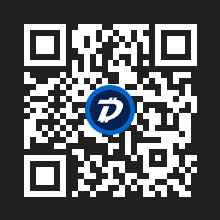
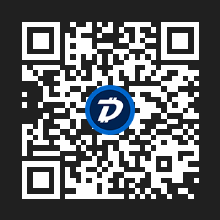
Wallet address casing

diff --git a/src/app/shared/Constants.ts b/src/app/shared/Constants.ts
@@ -1,8 +1,8 @@
 export abstract class Constants {
     static readonly DATE_FORMAT: string = 'dd-MM-yyyy';
     static readonly DATE_TIME_FORMAT: string = 'dd-MM-yyyy HH:mm';
-    static readonly DIGIBYTE_WALLET_ADDRESS_GENERAL: string = 'DGB1QVKXGPELLS5Z2YEAZS0HQ6SPKS362URNJ3FS86K';
-    static readonly DIGIBYTE_WALLET_ADDRESS_TRANSACTIONS: string = 'DGB1QZXU0RAPYVJZ9WWS8CDYQJ6T7T5LNE0LGNM4W5W';
+    static readonly DIGIBYTE_WALLET_ADDRESS_GENERAL: string = 'dgb1qvkxgpells5z2yeazs0hq6spks362urnj3fs86k';
+    static readonly DIGIBYTE_WALLET_ADDRESS_TRANSACTIONS: string = 'dgb1qzxu0rapyvjz9wws8cdyqj6t7t5lne0lgnm4w5w';
     static readonly EMPTY_GUID: string = '00000000-0000-0000-0000-000000000000';    
     static readonly QR_CODE_COLOR_DARK: string = '#ffffff';
     static readonly QR_CODE_COLOR_LIGHT: string = '#202020';

diff --git a/src/app/shared/dialogs/signup/dialog.signup.component.html b/src/app/shared/dialogs/signup/dialog.signup.component.html
@@ -2,6 +2,7 @@
 <form (ngSubmit)="onSubmit()">
   <mat-dialog-content class="mat-typography">
     <p>Set up shop in just a few minutes!<br />All we need is some basic information to get you going.</p>
+    <p class="TextError">Signing up is not possible at this moment. Keep an eye out on our social media channels for updates.</p>
 
     <mat-form-field>
       <mat-label>Your e-mail address</mat-label>
